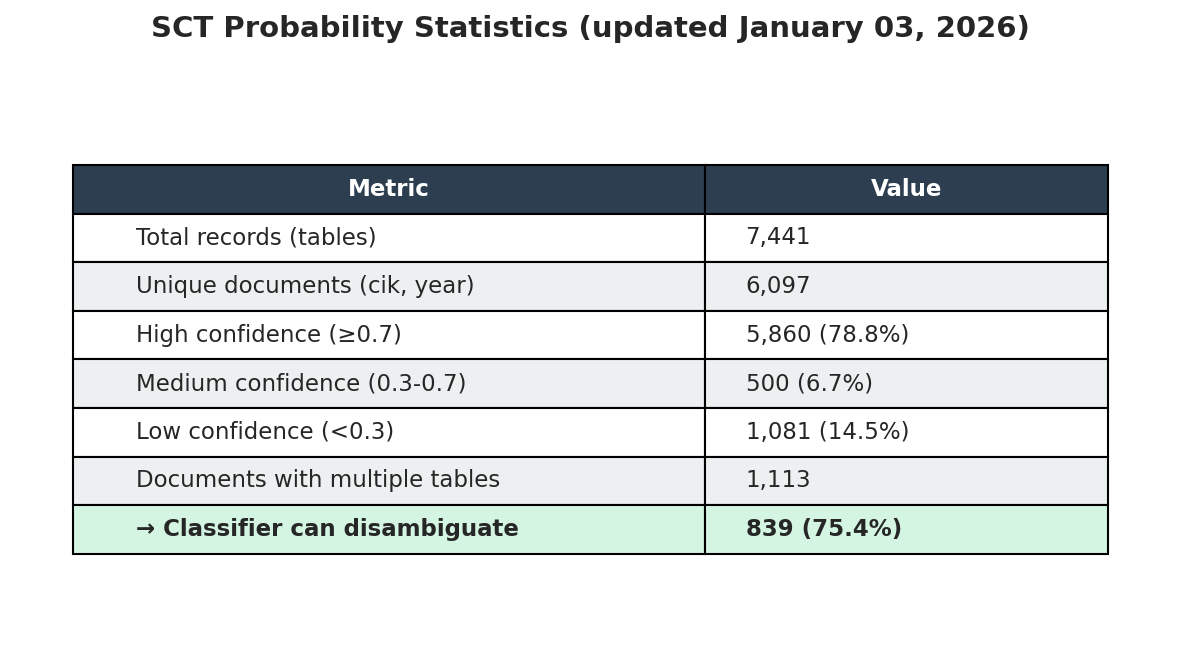
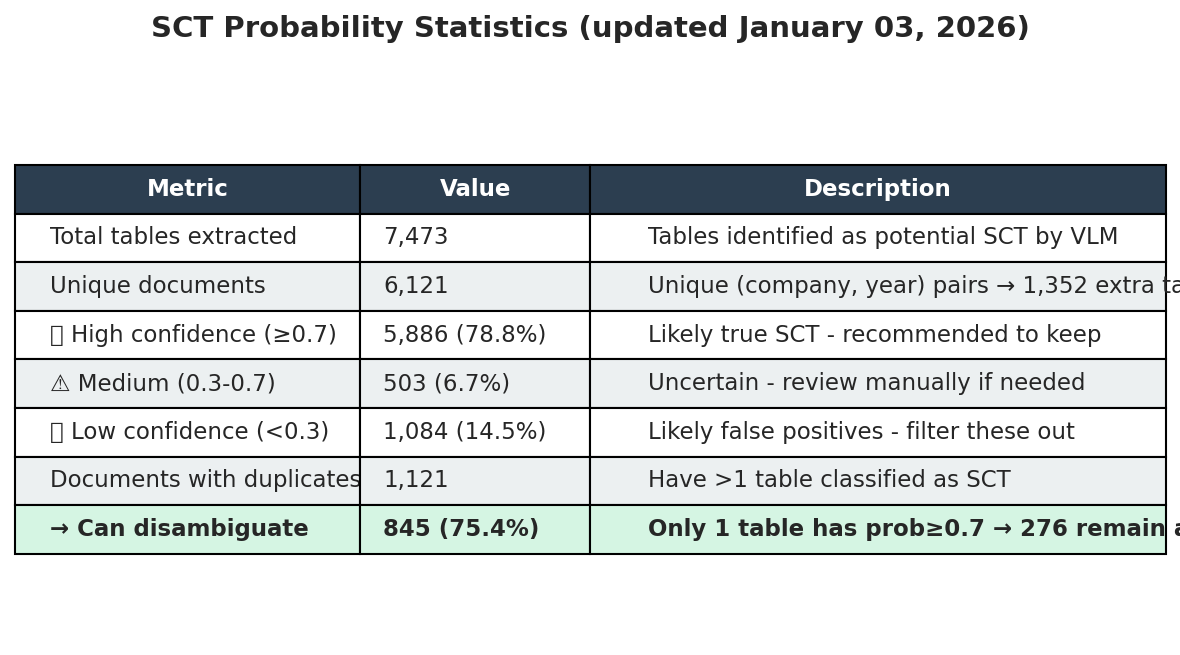
fixes

diff --git a/src/vlm/classifier.py b/src/vlm/classifier.py
@@ -66,12 +66,14 @@ class SCTClassifier:
     Binary classifier for Summary Compensation Tables.
     
     Args:
-        model_path: Path to the saved model directory (with classifier_head.safetensors)
+        model_path: Path to local model directory, or HuggingFace repo ID.
+                   If local path doesn't exist, downloads from HuggingFace.
         device: Device to run on ('cuda' or 'cpu')
         threshold: Probability threshold for is_sct classification
     """
     
-    DEFAULT_MODEL_PATH = Path(__file__).parent.parent.parent / "hf/models/exp2-weighted-loss-qwen3/full"
+    DEFAULT_LOCAL_PATH = Path(__file__).parent.parent.parent / "hf/models/exp2-weighted-loss-qwen3/full"
+    DEFAULT_HF_REPO = "pierjoe/Qwen3-VL-4B-SCT-Classifier"
     
     def __init__(
         self, 
@@ -79,11 +81,28 @@ class SCTClassifier:
         device: str = "cuda",
         threshold: float = 0.5
     ):
-        self.model_path = Path(model_path) if model_path else self.DEFAULT_MODEL_PATH
         self.device = device
         self.threshold = threshold
         self._model = None
         self._processor = None
+        
+        # Resolve model path
+        if model_path is None:
+            # Try local default first, then HuggingFace
+            if self.DEFAULT_LOCAL_PATH.exists():
+                self.model_path = self.DEFAULT_LOCAL_PATH
+                self._is_hf_repo = False
+            else:
+                self.model_path = self.DEFAULT_HF_REPO
+                self._is_hf_repo = True
+        elif isinstance(model_path, Path) or (isinstance(model_path, str) and "/" not in model_path):
+            # Local path
+            self.model_path = Path(model_path)
+            self._is_hf_repo = False
+        else:
+            # HuggingFace repo ID (contains /)
+            self.model_path = model_path
+            self._is_hf_repo = True
         
     def _load_model(self):
         """Lazy load model on first use."""
@@ -94,17 +113,34 @@ class SCTClassifier:
         from safetensors.torch import load_file
         import json
         
+        if self._is_hf_repo:
+            print(f"Loading SCT Classifier from HuggingFace: {self.model_path}...")
+            from huggingface_hub import hf_hub_download, snapshot_download
+            
+            # Download the entire model
+            local_dir = snapshot_download(
+                repo_id=self.model_path,
+                local_dir=self.DEFAULT_LOCAL_PATH.parent / self.model_path.replace("/", "_")
+            )
+            model_path = Path(local_dir)
+        else:
+            if not self.model_path.exists():
+                raise FileNotFoundError(
+                    f"Local model not found at {self.model_path}. "
+                    f"Either provide a valid path or use HuggingFace repo: {self.DEFAULT_HF_REPO}"
+                )
+            print(f"Loading SCT Classifier from local: {self.model_path}...")
+            model_path = self.model_path
+        
         # Load config
-        config_path = self.model_path / "classifier_config.json"
+        config_path = model_path / "classifier_config.json"
         with open(config_path) as f:
             config = json.load(f)
         
-        print(f"Loading SCT Classifier from {self.model_path}...")
-        
         # Load processor and base model
-        self._processor = AutoProcessor.from_pretrained(str(self.model_path))
+        self._processor = AutoProcessor.from_pretrained(str(model_path))
         base_model = AutoModelForVision2Seq.from_pretrained(
-            str(self.model_path),
+            str(model_path),
             torch_dtype=torch.bfloat16,
             device_map=self.device
         )
@@ -116,7 +152,7 @@ class SCTClassifier:
             num_labels=config["num_labels"]
         ).to(self.device)
         
-        head_path = self.model_path / "classifier_head.safetensors"
+        head_path = model_path / "classifier_head.safetensors"
         self._model.classifier.load_state_dict(load_file(head_path))
         self._model.eval()
         

diff --git a/src/analysis/stats.py b/src/analysis/stats.py
@@ -447,21 +447,28 @@ def generate_probability_stats(
             if len(high_prob) == 1:
                 could_disambiguate += 1
     
-    # --- Stats Table ---
+    # --- Stats Table with descriptions ---
+    # Build data with dynamic descriptions
+    extra_tables = total - unique_docs
+    disambiguate_pct = could_disambiguate/multi_table_docs*100 if multi_table_docs > 0 else 0
+    remaining_duplicates = multi_table_docs - could_disambiguate
+    
+    table_data = [
+        ["Total tables extracted", f"{total:,}", "Tables identified as potential SCT by VLM"],
+        ["Unique documents", f"{unique_docs:,}", f"Unique (company, year) pairs → {extra_tables:,} extra tables"],
+        ["✅ High confidence (≥0.7)", f"{high_conf:,} ({high_conf/total*100:.1f}%)", "Likely true SCT - recommended to keep"],
+        ["⚠ Medium (0.3-0.7)", f"{medium_conf:,} ({medium_conf/total*100:.1f}%)", "Uncertain - review manually if needed"],
+        ["❌ Low confidence (<0.3)", f"{low_conf:,} ({low_conf/total*100:.1f}%)", "Likely false positives - filter these out"],
+        ["Documents with duplicates", f"{multi_table_docs:,}", f"Have >1 table classified as SCT"],
+        ["→ Can disambiguate", f"{could_disambiguate:,} ({disambiguate_pct:.1f}%)", f"Only 1 table has prob≥0.7 → {remaining_duplicates:,} remain ambiguous"],
+    ]
+    
     generated.append(create_table_image(
-        data=[
-            ["Total records (tables)", f"{total:,}"],
-            ["Unique documents (cik, year)", f"{unique_docs:,}"],
-            ["High confidence (≥0.7)", f"{high_conf:,} ({high_conf/total*100:.1f}%)"],
-            ["Medium confidence (0.3-0.7)", f"{medium_conf:,} ({medium_conf/total*100:.1f}%)"],
-            ["Low confidence (<0.3)", f"{low_conf:,} ({low_conf/total*100:.1f}%)"],
-            ["Documents with multiple tables", f"{multi_table_docs:,}"],
-            ["→ Classifier can disambiguate", f"{could_disambiguate:,} ({could_disambiguate/multi_table_docs*100:.1f}%)" if multi_table_docs > 0 else "N/A"],
-        ],
-        headers=["Metric", "Value"],
+        data=table_data,
+        headers=["Metric", "Value", "Description"],
         title=f"SCT Probability Statistics (updated {today})",
         output_path=docs_path / "stats_probability.png",
-        col_widths=[0.55, 0.35],
+        col_widths=[0.3, 0.2, 0.5],
         highlight_last=True
     ))
     

diff --git a/scripts/pipeline.py b/scripts/pipeline.py
@@ -25,7 +25,11 @@ MINERU_MAX_CONCURRENT = 8
 DOC_MAX_CONCURRENT = 16
 
 # Set to True to process pending documents instead of adding new ones
-CONTINUE_MODE = True
+CONTINUE_MODE = False
+
+# Filter by years (empty list = all years)
+# Examples: [2020, 2021, 2022] or range(2015, 2023)
+YEARS_FILTER = [2020]  # e.g., [2020, 2021] or list(range(2005, 2010))
 
 # =============================================================================
 # PATHS
@@ -97,6 +101,13 @@ async def main():
     
     # Build doc_id -> doc mapping
     doc_id_to_doc = {get_doc_id(doc): doc for doc in all_docs}
+    
+    # Filter by years if specified
+    if YEARS_FILTER:
+        years_set = set(YEARS_FILTER)
+        before_filter = len(doc_id_to_doc)
+        doc_id_to_doc = {k: v for k, v in doc_id_to_doc.items() if v.get('year') in years_set}
+        print(f"\n[YEAR FILTER] {before_filter:,} → {len(doc_id_to_doc):,} documents (years: {sorted(years_set)})")
     
     # Determine what to process
     tracked_ids = set(tracker.get_all_doc_ids())
@@ -173,10 +184,21 @@ async def main():
     print("\n[3/6] Processing PDFs with MinerU...")
     
     # Get docs that need MinerU (non-funds without mineru_done)
-    need_mineru = [d for d in doc_ids_to_process 
-                   if not tracker.has_phase(d, "mineru_done")
-                   and tracker.get_document(d) 
-                   and tracker.get_document(d).get("sic") not in ("NULL", None)]
+    funds_skipped = []
+    need_mineru = []
+    for d in doc_ids_to_process:
+        doc = tracker.get_document(d)
+        if not doc:
+            continue
+        if tracker.has_phase(d, "mineru_done"):
+            continue
+        if doc.get("sic") in ("NULL", None):
+            funds_skipped.append(d)
+        else:
+            need_mineru.append(d)
+    
+    if funds_skipped:
+        print(f"  Skipping {len(funds_skipped)} funds (no executive compensation)")
     
     if need_mineru:
         failed, success = process_pdfs_with_mineru(

diff --git a/scripts/post_processing.py b/scripts/post_processing.py
@@ -33,7 +33,9 @@ HF_LOCAL_PATH = BASE_PATH / "hf/execcomp-ai-postprocessed"
 HF_REPO = "pierjoe/execcomp-ai-sample"
 
 # Classifier settings
-CLASSIFIER_MODEL_PATH = BASE_PATH / "hf/models/exp2-weighted-loss-qwen3/full"
+# Local path or HuggingFace repo ID. If local doesn't exist, downloads from HF.
+# Set to None to use default (tries local first, then HuggingFace)
+CLASSIFIER_MODEL_PATH = None  # or "pierjoe/Qwen3-VL-4B-SCT-Classifier" or local path
 CLASSIFIER_BATCH_SIZE = 4
 CLASSIFIER_DEVICE = "cuda:0"
 

diff --git a/README.md b/README.md
@@ -125,8 +125,9 @@ By status:
 By phase completed:
   [1] PDF created:     8,015
   [2] MinerU done:     8,015
-  [3] Classified:      6,108
-  [4] Extracted:       6,538
+  [3] VLM processed:   6,538
+      → Found SCT:     6,108
+      → No SCT:        430
 ==================================================
 ```
 
